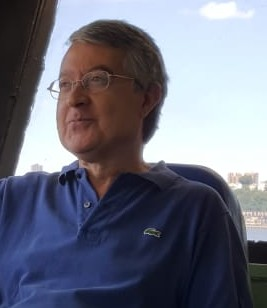
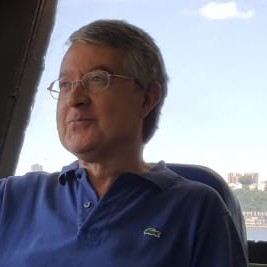
public/ Se recorto imagen y se normalizo el formato de la base de datos, ahora todos tienen el mismo formato y TS ya no se queja

diff --git a/public/team2.ts b/public/team2.ts
@@ -31,52 +31,101 @@ export const team: Tmember[] = [
     description:
     " I am an evolutionary marine biologist highly interested in genomics, transcriptomics, and symbiont communities. My research combines morphology, ecology, and molecular biology to understand how marine organisms evolve, speciate, adapt, and colonize new habitats. My skills include reference genome assembly and annotation, chromosomal structural variants identification, population structure analyses, adaptation signal detection, demography reconstruction, phylogeography, protein modeling, and analysis of microbiome symbiotic communities.",
   },
-  {
-    id: 2,
-    imageID: "CintaP",
-    department: " ---- ",
-    image: "guitarra_02",
-    description:
-      "Morbi ornare augue nisl, vel elementum dui mollis vel. Curabitur non ex id eros fermentum hendrerit.",
-    category: "Senior",
-  },
-  {
-    id: 3,
-    imageID: "FrancescM",
-    image: "guitarra_03",
-    description:
-      "Morbi ornare augue nisl, vel elementum dui mollis vel. Curabitur non ex id eros fermentum hendrerit.",
-    category: "Senior",
-  },
-  {
-    id: 4,
-    name: "Gisela Marin",
-    image: "guitarra_04",
-    description:
-      "Morbi ornare augue nisl, vel elementum dui mollis vel. Curabitur non ex id eros fermentum hendrerit.",
-    category: "Ph.D. Student",
-  },
-  {
-    id: 5,
-    name: "HelenaV",
-    image: "guitarra_05",
-    description:
-      "Morbi ornare augue nisl, vel elementum dui mollis vel. Curabitur non ex id eros fermentum hendrerit.",
-    category: "Ph.D. Student",
-  },
-  {
-    id: 6,
-    name: "CarlesG",
-    image: "guitarra_01",
-    description:
-      "Morbi ornare augue nisl, vel elementum dui mollis vel. Curabitur non ex id eros fermentum hendrerit.",
-    category: "Post-Doc",
-  },
-  {
-    id: 7,
-    imageID: "OwenB",
-    description:
-      "Morbi ornare augue nisl, vel elementum dui mollis vel. Curabitur non ex id eros fermentum hendrerit.",
-    category: "Senior",
-  },
+{
+  id: 2,
+  current: true,
+  name: " ",
+  category: "Senior",
+  department: " ---- ",
+  group: " ",
+  email: " ",
+  orcid: " ",
+  scholar: "",
+  website: "",
+  socialmedia: "",
+  imageID: "CintaP",
+  description:
+    "Morbi ornare augue nisl, vel elementum dui mollis vel. Curabitur non ex id eros fermentum hendrerit.",
+},
+{
+  id: 3,
+  current: true,
+  name: " ",
+  category: "Senior",
+  department: " ---- ",
+  group: " ",
+  email: " ",
+  orcid: " ",
+  scholar: "",
+  website: "",
+  socialmedia: "",
+  imageID: "FrancescM",
+  description:
+    "Morbi ornare augue nisl, vel elementum dui mollis vel. Curabitur non ex id eros fermentum hendrerit.",
+},
+{
+  id: 4,
+  current: true,
+  name: "Gisela Marin",
+  category: "Ph.D. Student",
+  department: " ---- ",
+  group: " ",
+  email: " ",
+  orcid: " ",
+  scholar: "",
+  website: "",
+  socialmedia: "",
+  imageID: "GiselaM",
+  description:
+    "Morbi ornare augue nisl, vel elementum dui mollis vel. Curabitur non ex id eros fermentum hendrerit.",
+},
+{
+  id: 5,
+  current: true,
+  name: "Helena Vela",
+  category: "Ph.D. Student",
+  department: " ---- ",
+  group: " ",
+  email: " ",
+  orcid: " ",
+  scholar: "",
+  website: "",
+  socialmedia: "",
+  imageID: "HelenaV",
+  description:
+    "Morbi ornare augue nisl, vel elementum dui mollis vel. Curabitur non ex id eros fermentum hendrerit.",
+},
+{
+  id: 6,
+  current: true,
+  name: "Carles Galia",
+  category: "Post-Doc",
+  department: " ---- ",
+  group: " ",
+  email: " ",
+  orcid: " ",
+  scholar: "",
+  website: "",
+  socialmedia: "",
+  imageID: "CarlesG",
+  description:
+    "Morbi ornare augue nisl, vel elementum dui mollis vel. Curabitur non ex id eros fermentum hendrerit.",
+},
+{
+  id: 7,
+  current: true,
+  name: "Owen Bat",
+  category: "Senior",
+  department: " ---- ",
+  group: " ",
+  email: " ",
+  orcid: " ",
+  scholar: "",
+  website: "",
+  socialmedia: "",
+  imageID: "OwenB",
+  description:
+    "Morbi ornare augue nisl, vel elementum dui mollis vel. Curabitur non ex id eros fermentum hendrerit.",
+},
+
 ];
